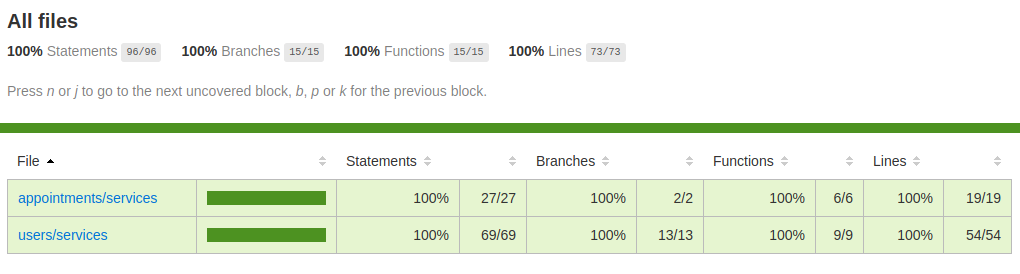
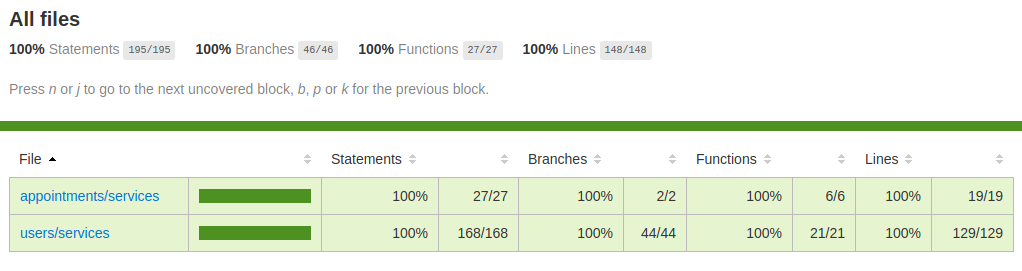
sessão02-aula11 - Perfil do usuário - Rota e controller de perfil

diff --git a/src/modules/users/services/ShowProfileService.spec.ts b/src/modules/users/services/ShowProfileService.spec.ts
@@ -1,0 +1,38 @@
+import AppError from '@shared/errors/AppError'
+
+import FakeUsersRepository from '../repositories/fakes/FakeUsersRepository'
+
+import ShowProfileService from './ShowProfileService'
+
+let fakeUsersRepository: FakeUsersRepository
+
+let showProfile: ShowProfileService
+
+describe('ShowProfile', () => {
+  beforeEach(() => {
+    fakeUsersRepository = new FakeUsersRepository()
+
+    showProfile = new ShowProfileService(fakeUsersRepository)
+  })
+
+  it('should be able to show the profile', async () => {
+    const user = await fakeUsersRepository.create({
+      name: 'Gobarber User',
+      email: 'user@gobarber.com',
+      password: '123456',
+    })
+
+    const userProfile = await showProfile.execute({ user_id: user.id })
+
+    expect(userProfile.name).toBe('Gobarber User')
+    expect(userProfile.email).toBe('user@gobarber.com')
+  })
+
+  it('should not be able to show the profile of inexistent user', async () => {
+    await expect(
+      showProfile.execute({
+        user_id: 'inexistent-user-id',
+      })
+    ).rejects.toBeInstanceOf(AppError)
+  })
+})

diff --git a/src/modules/users/infra/http/controllers/ProfileController.ts b/src/modules/users/infra/http/controllers/ProfileController.ts
@@ -1,0 +1,34 @@
+import { Request, Response } from 'express'
+import { container } from 'tsyringe'
+
+import UpdateProfileService from '@modules/users/services/UpdateProfileService'
+import ShowProfileService from '@modules/users/services/ShowProfileService'
+
+export default class ProfileController {
+  public async show(req: Request, res: Response): Promise<Response> {
+    const user_id = req.user.id
+
+    const showProfile = container.resolve(ShowProfileService)
+
+    const user = await showProfile.execute({ user_id })
+
+    return res.json(user)
+  }
+
+  public async update(req: Request, res: Response): Promise<Response> {
+    const user_id = req.user.id
+    const { name, email, old_password, password } = req.body
+
+    const updateProfile = container.resolve(UpdateProfileService)
+
+    await updateProfile.execute({
+      user_id,
+      name,
+      email,
+      old_password,
+      password,
+    })
+
+    return res.status(204).json()
+  }
+}

diff --git a/src/modules/users/services/ShowProfileService.ts b/src/modules/users/services/ShowProfileService.ts
@@ -1,0 +1,31 @@
+import { inject, injectable } from 'tsyringe'
+
+import AppError from '@shared/errors/AppError'
+
+import User from '../infra/typeorm/entities/User'
+
+import IUsersRepository from '../repositories/IUsersRepository'
+
+interface IRequest {
+  user_id: string
+}
+
+@injectable()
+export default class ShowProfileService {
+  constructor(
+    @inject('UsersRepository')
+    private usersRepository: IUsersRepository
+  ) {}
+
+  public async execute({ user_id }: IRequest): Promise<Omit<User, 'password'>> {
+    const user = await this.usersRepository.findById(user_id)
+
+    if (!user) {
+      throw new AppError('User not found')
+    }
+
+    const { password: _, ...userWithoutPassword } = user
+
+    return userWithoutPassword
+  }
+}

diff --git a/src/shared/infra/http/routes/index.ts b/src/shared/infra/http/routes/index.ts
@@ -2,6 +2,7 @@ import { Router } from 'express'
 
 import appointmentsRouter from '@modules/appointments/infra/http/routes/appointments.routes'
 import passwordRouter from '@modules/users/infra/http/routes/password.routes'
+import profileRouter from '@modules/users/infra/http/routes/profile.routes'
 import sessionsRouter from '@modules/users/infra/http/routes/sessions.routes'
 import usersRouter from '@modules/users/infra/http/routes/users.routes'
 
@@ -9,6 +10,7 @@ const routes = Router()
 
 routes.use('/appointments', appointmentsRouter)
 routes.use('/password', passwordRouter)
+routes.use('/profile', profileRouter)
 routes.use('/sessions', sessionsRouter)
 routes.use('/users', usersRouter)
 

diff --git a/src/modules/users/services/UpdateProfileService.spec.ts b/src/modules/users/services/UpdateProfileService.spec.ts
@@ -39,6 +39,16 @@ describe('UpdateProfile', () => {
     expect(updatedUser.email).toBe('gobarber_user@gobarber.com')
   })
 
+  it('should not be able to update the profile of inexistent user', async () => {
+    await expect(
+      updateProfile.execute({
+        user_id: 'inexistent-user-id',
+        name: 'GoBarber User',
+        email: 'gobarber_user@gobarber.com',
+      })
+    ).rejects.toBeInstanceOf(AppError)
+  })
+
   it('should not be able to change to another user email', async () => {
     await fakeUsersRepository.create({
       name: 'Gobarber User 1',

diff --git a/src/modules/users/infra/http/routes/profile.routes.ts b/src/modules/users/infra/http/routes/profile.routes.ts
@@ -1,0 +1,15 @@
+import { Router } from 'express'
+
+import ProfileController from '../controllers/ProfileController'
+
+import ensureAuthenticated from '../middlewares/ensureAuthenticated'
+
+const router = Router()
+const profileController = new ProfileController()
+
+router.use(ensureAuthenticated)
+
+router.get('/', profileController.show)
+router.put('/', profileController.update)
+
+export default router

diff --git a/features.md b/features.md
@@ -25,12 +25,12 @@
 
 **RF**
 
-- O usuário deve poder alterar dados do seu perfil;
+- O usuário deve poder alterar dados do seu perfil; :heavy_check_mark:
 
 **RN**
 
-- O usuário não pode alterar seu e-mail para um e-mail já utilizado;
-- Para atualizar sua senha, o usuário deve informar a senha antiga;
+- O usuário não pode alterar seu e-mail para um e-mail já utilizado; :heavy_check_mark:
+- Para atualizar sua senha, o usuário deve informar a senha antiga; :heavy_check_mark:
 - Para atualizar sua senha, o usuário precisa confirmar a nova senha;
 
 # Painel do prestador
